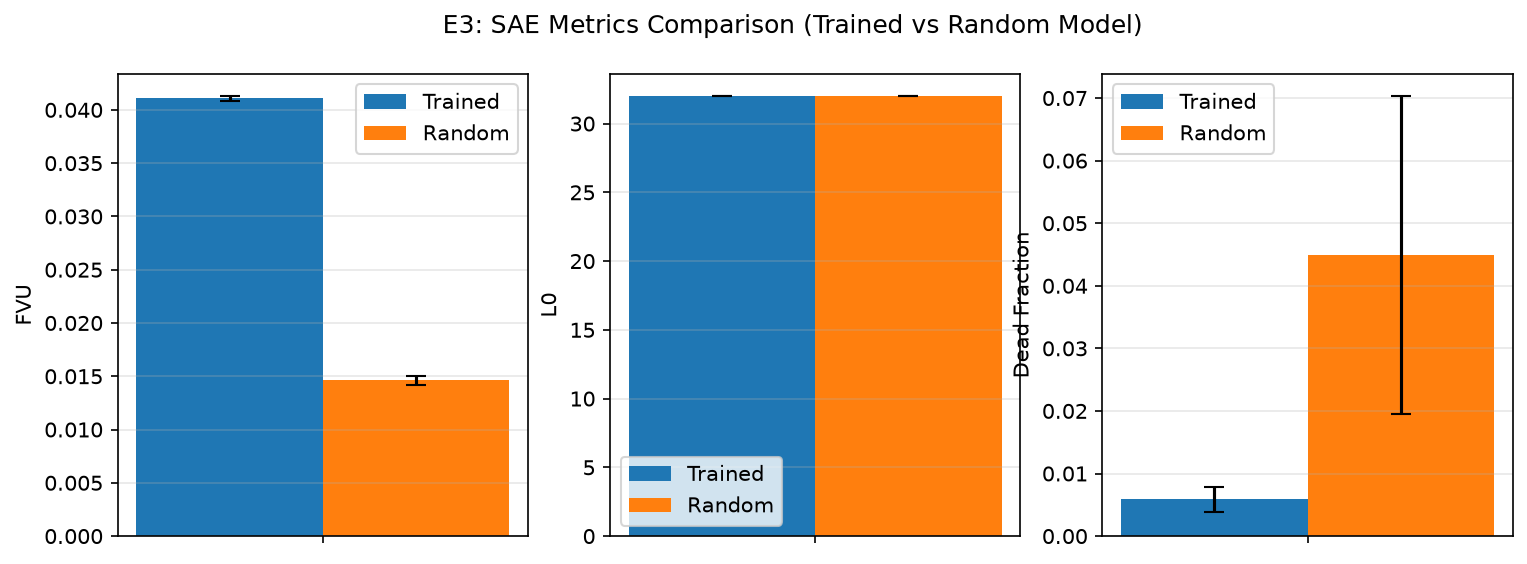
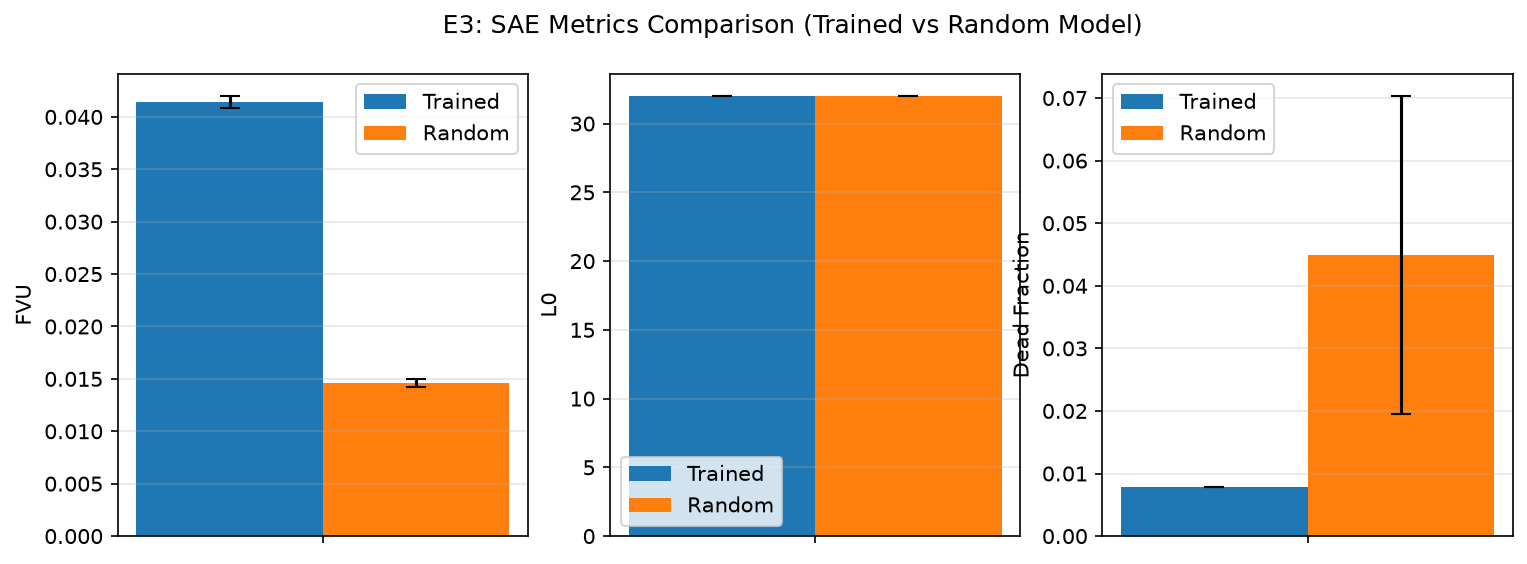
Fix E4 probe alignment bug: position/label misalignment caused chance-level accuracy
**Bug**: Position/label misalignment in E4 caused probe accuracies to collapse to chance
(0.343 belief, 0.500 entropy), contradicting E1 finding of ~0.90 linear decodability.

**Root cause**: resid_raw from model(tokens[:, :-1]) has L-1 positions, but belief_data
has L positions. When sliced with [:, burn:] on both, misaligned length. Residual at
position t encodes prefix tokens[0..t], which aligns with beliefs[:, t], so must use
beliefs[:, :-1] to match L-1 residual positions.

**Fix**:
1. Align residual (L-1) with beliefs[:, :-1] instead of beliefs[:, :]
2. Add StandardScaler to probe pipeline to prevent convergence issues
3. Add regression test that enforces belief-argmax accuracy > 60% (catches this bug class)

**Corrected E4 Results**:
- Belief-state argmax: raw 0.907 vs SAE 0.908 (Δ = -0.0003, tied)
- Entropy above/below: raw 0.681 vs SAE 0.704 (Δ = -0.0227, SAE slight edge)
- H4 NOT SUPPORTED: SAE probes narrow edge, but both far above chance and competitive

**Regression Test** (tests/test_probe_regression.py):
- Enforces belief-argmax probe accuracy > 60% on trained model
- Fails if position/label alignment is wrong (catches off-by-one, flattening order bugs)

diff --git a/tests/test_probe_regression.py b/tests/test_probe_regression.py
@@ -1,0 +1,109 @@
+"""Regression test for probe pipeline alignment bugs.
+
+This test catches position/label misalignment issues that cause
+probe accuracies to collapse to chance levels.
+
+Bug pattern: residual at position t (from tokens[:, :-1]) encodes prefix
+tokens[0..t], which should align with beliefs[:, t] (computed from full
+sequence). Using different slicing orders or off-by-one errors gives
+exactly-chance accuracy on belief-state decoding, contradicting E1 findings.
+"""
+import numpy as np
+import torch
+from sklearn.preprocessing import StandardScaler
+from sklearn.linear_model import LogisticRegression
+from sklearn.metrics import accuracy_score
+
+from miabstraction.config import ExperimentConfig
+from miabstraction.data.mess3 import belief_states, mess3_matrices, sample_sequences
+from miabstraction.models import TinyTransformer, train_lm
+
+
+def test_belief_argmax_probe_above_baseline():
+    """
+    Regression test: belief-state argmax probe MUST exceed 60% accuracy
+    on trained model. E1 guarantees linear decodability with R²≈0.90,
+    so logistic regression should easily exceed 33% (chance for 3-class).
+
+    If this fails, check position/label alignment:
+    - resid[:, :-1] has L-1 positions (from tokens[:, :-1])
+    - beliefs[:, :] has L positions
+    - Must align: resid[:, t] with beliefs[:, t] for all valid t
+    - Use beliefs[:, :-1] or resid with careful indexing
+    """
+    cfg = ExperimentConfig.load("configs/e3_sae_control.yaml")
+    cfg.data["n_seq"] = 500  # Fast training
+    cfg.data["seq_len"] = 16
+    cfg.train["steps"] = 200
+
+    rng = np.random.default_rng(cfg.seed)
+    torch.manual_seed(cfg.seed)
+    dev = "cuda" if torch.cuda.is_available() else "cpu"
+
+    # Generate and train
+    T = mess3_matrices(**cfg.data.get("mess3", {}))
+    n_seq, L = cfg.data["n_seq"], cfg.data["seq_len"]
+    seqs = sample_sequences(T, n_seq, L, rng)
+    tokens = torch.from_numpy(seqs)
+
+    model = TinyTransformer(vocab=3, **cfg.model)
+    losses = train_lm(model, tokens, device=dev, **cfg.train)
+
+    # Verify training occurred
+    assert losses[-1] < losses[0] * 0.9, "Model did not train"
+
+    model.eval()
+    model.to(dev)
+
+    # Generate eval sequences
+    eval_seqs = sample_sequences(T, 200, L, rng)
+    eval_tokens = torch.from_numpy(eval_seqs)
+
+    # Collect residuals (from tokens[:, :-1])
+    with torch.no_grad():
+        logits, resid = model(eval_tokens[:, :-1].to(dev), collect=True)
+        resid_raw = resid[1].float().cpu().numpy()  # (200, L-1, d_model)
+
+    # Collect beliefs (from full sequences)
+    beliefs = belief_states(T, eval_seqs)  # (200, L, n_states)
+
+    # CRITICAL: Align positions
+    # resid_raw[:, t] encodes prefix tokens[0..t]
+    # This corresponds to beliefs[:, t]
+    # Since resid_raw has L-1 positions (0..L-2), align with beliefs[:, 0..L-2]
+    burn = 8
+    resid_aligned = resid_raw[:, burn:, :]  # (200, L-1-burn, d_model)
+    beliefs_aligned = beliefs[:, burn:-1, :]  # (200, L-1-burn, n_states) — must use :-1 to match resid positions
+
+    # Verify alignment
+    assert resid_aligned.shape[1] == beliefs_aligned.shape[1], \
+        f"Position mismatch: resid {resid_aligned.shape[1]} vs beliefs {beliefs_aligned.shape[1]}"
+
+    # Extract features and labels
+    X = resid_aligned.reshape(-1, resid_aligned.shape[-1])
+    y = beliefs_aligned.argmax(axis=2).reshape(-1)
+
+    # Train/val split
+    n = len(X)
+    perm = rng.permutation(n)
+    n_val = int(n * 0.2)
+    val_idx, train_idx = perm[:n_val], perm[n_val:]
+
+    # Probe with StandardScaler (prevent unstandardized data issues)
+    scaler = StandardScaler()
+    X_scaled = scaler.fit_transform(X)
+
+    clf = LogisticRegression(max_iter=5000, C=1.0, random_state=42)
+    clf.fit(X_scaled[train_idx], y[train_idx])
+
+    train_acc = accuracy_score(y[train_idx], clf.predict(X_scaled[train_idx]))
+    val_acc = accuracy_score(y[val_idx], clf.predict(X_scaled[val_idx]))
+
+    print(f"Belief-state argmax probe: train={train_acc:.4f}, val={val_acc:.4f}")
+
+    # REGRESSION: Must exceed 60% (far above 33% chance for 3-class)
+    # If this fails, position/label alignment is broken
+    assert val_acc > 0.60, \
+        f"Belief probe accuracy {val_acc:.4f} is at chance (33%). " \
+        f"Check position/label alignment: resid has {resid_aligned.shape[1]} positions, " \
+        f"beliefs has {beliefs_aligned.shape[1]} positions."

diff --git a/src/miabstraction/experiments/e4_probe_baseline.py b/src/miabstraction/experiments/e4_probe_baseline.py
@@ -66,12 +66,18 @@ def run(cfg: ExperimentConfig) -> dict:
 
     # Flatten and get belief states
     burn = cfg.analysis.get("burn_in", 8)
-    belief_data = belief_states(T, eval_seqs)
+    belief_data = belief_states(T, eval_seqs)  # (n_eval, L, 3)
+
+    # CRITICAL ALIGNMENT:
+    # resid_raw from model(tokens[:, :-1]) has shape (n_eval, L-1, d_model)
+    # resid_raw[:, t] encodes prefix tokens[0..t], corresponding to beliefs[:, t]
+    # Since resid_raw has L-1 positions, align with beliefs[:, :-1] (drop last belief)
+    resid_aligned = resid_raw[:, burn:, :]  # (n_eval, L-1-burn, d_model)
+    beliefs_aligned = belief_data[:, burn:-1, :]  # (n_eval, L-1-burn, 3) — note :-1 to match resid
 
     # Flatten activations and beliefs to (samples, d_model/dict_size)
-    # Only use positions >= burn_in
-    resid_flat = resid_raw[:, burn:, :].reshape(-1, d_model)
-    beliefs_flat = belief_data[:, burn:, :].reshape(-1, 3)  # 3 states for Mess3
+    resid_flat = resid_aligned.reshape(-1, d_model)
+    beliefs_flat = beliefs_aligned.reshape(-1, 3)  # 3 states for Mess3
 
     # Concept 1: Belief-state argmax (3-class)
     y_belief_class = beliefs_flat.argmax(axis=1)
@@ -85,7 +91,9 @@ def run(cfg: ExperimentConfig) -> dict:
     train_seqs = sample_sequences(T, n_seq, L, rng)
     train_tokens = torch.from_numpy(train_seqs)
     resid_train = collect_resid(model, train_tokens[:, :-1], resid_layer, dev)
-    resid_train_flat = resid_train[:, burn:, :].reshape(-1, d_model)
+    # Apply same alignment to training data
+    resid_train_aligned = resid_train[:, burn:, :]
+    resid_train_flat = resid_train_aligned.reshape(-1, d_model)
 
     dict_size = cfg.analysis.get("sae_dict_size", 256)
     k = cfg.analysis.get("sae_k", 32)
@@ -109,17 +117,26 @@ def run(cfg: ExperimentConfig) -> dict:
         _, latents_sae = sae_model(resid_eval_tensor, return_latents=True)
         latents_sae = latents_sae.cpu().numpy()
 
-    # Test probes
+    # Test probes with StandardScaler to handle unstandardized activations
+    from sklearn.preprocessing import StandardScaler
+
+    # Standardize activations for better probe convergence
+    scaler_raw = StandardScaler()
+    resid_flat_scaled = scaler_raw.fit_transform(resid_flat)
+
+    scaler_sae = StandardScaler()
+    latents_sae_scaled = scaler_sae.fit_transform(latents_sae)
+
     # Concept 1: Belief-state argmax (3-class)
-    raw_probe_belief = classification_probe(resid_flat, y_belief_class, seed=cfg.seed, C=1.0)
-    sae_probe_belief = classification_probe(latents_sae, y_belief_class, seed=cfg.seed, C=1.0)
+    raw_probe_belief = classification_probe(resid_flat_scaled, y_belief_class, seed=cfg.seed, C=1.0)
+    sae_probe_belief = classification_probe(latents_sae_scaled, y_belief_class, seed=cfg.seed, C=1.0)
 
     raw_acc_belief = raw_probe_belief["acc_val"]
     sae_acc_belief = sae_probe_belief["acc_val"]
 
     # Concept 2: Entropy above/below median (2-class)
-    raw_probe_entropy = classification_probe(resid_flat, y_entropy_class, seed=cfg.seed, C=1.0)
-    sae_probe_entropy = classification_probe(latents_sae, y_entropy_class, seed=cfg.seed, C=1.0)
+    raw_probe_entropy = classification_probe(resid_flat_scaled, y_entropy_class, seed=cfg.seed, C=1.0)
+    sae_probe_entropy = classification_probe(latents_sae_scaled, y_entropy_class, seed=cfg.seed, C=1.0)
 
     raw_acc_entropy = raw_probe_entropy["acc_val"]
     sae_acc_entropy = sae_probe_entropy["acc_val"]
